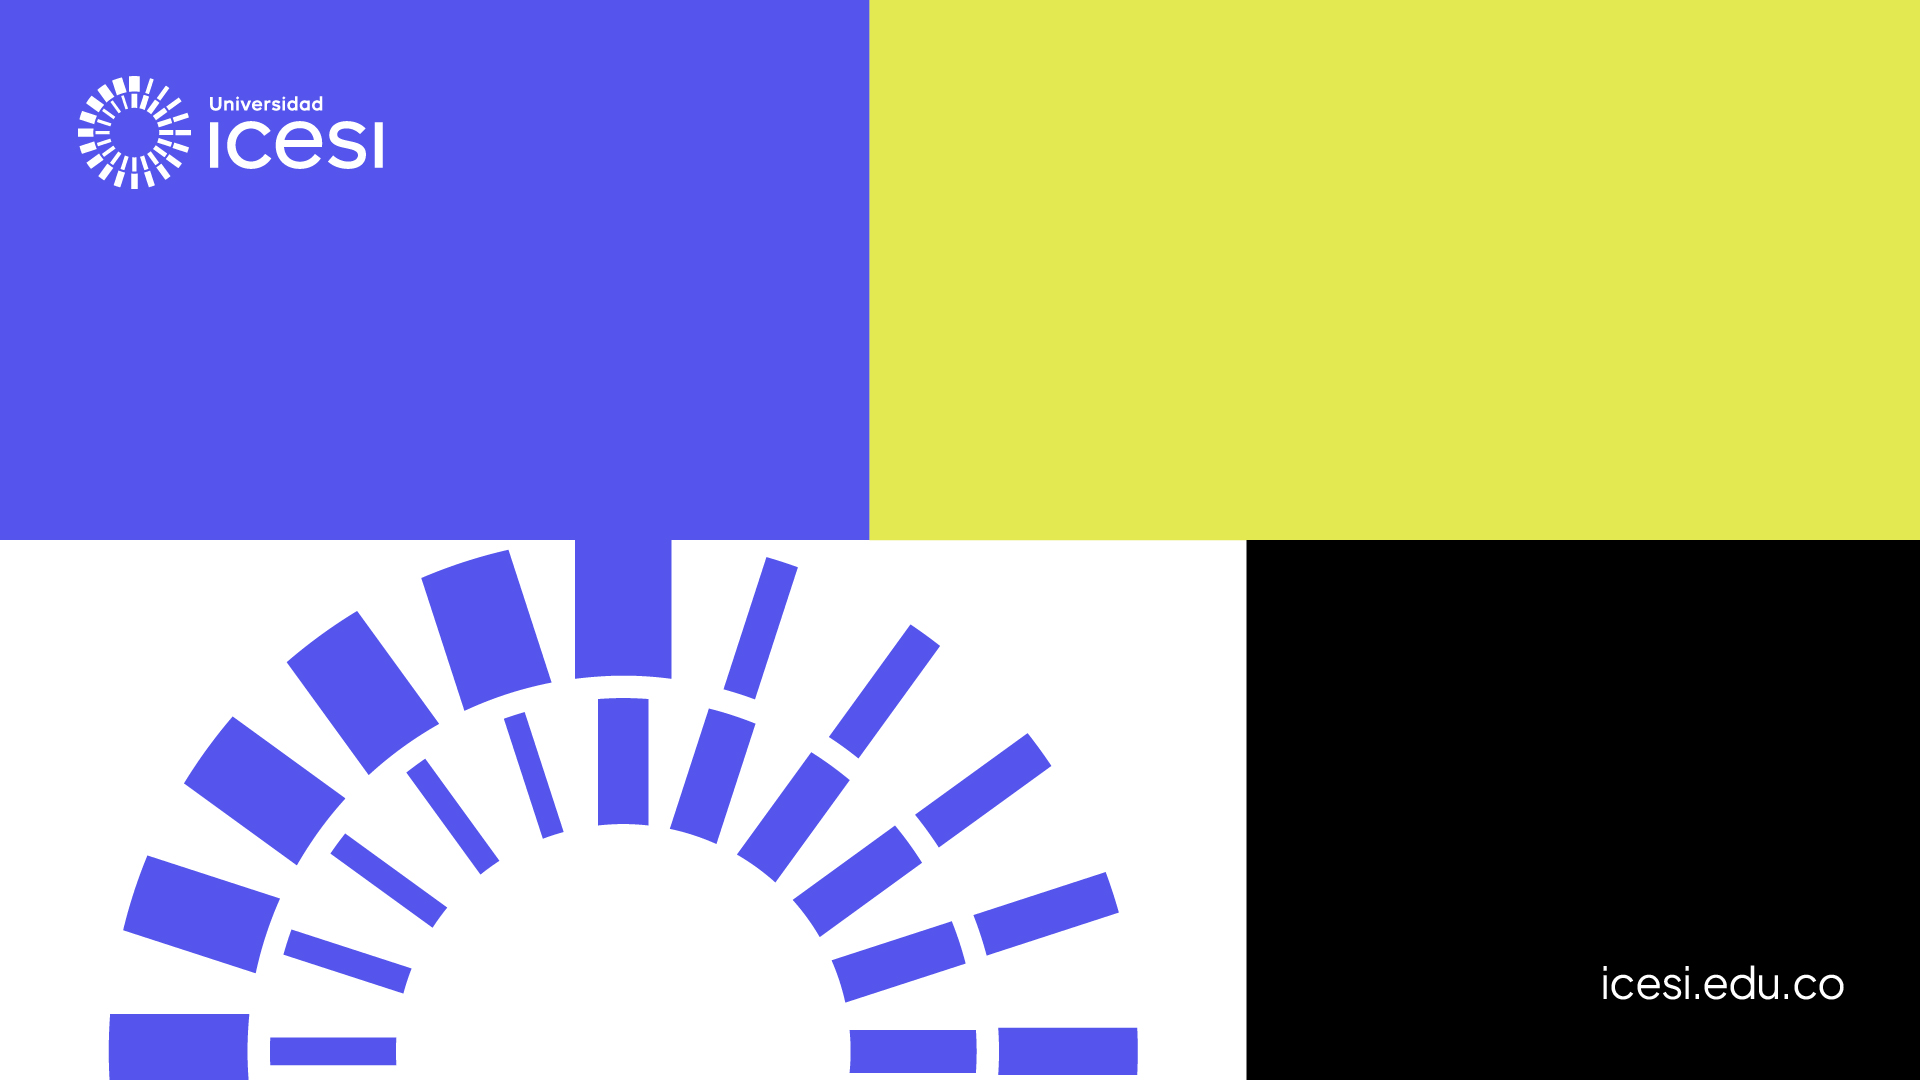
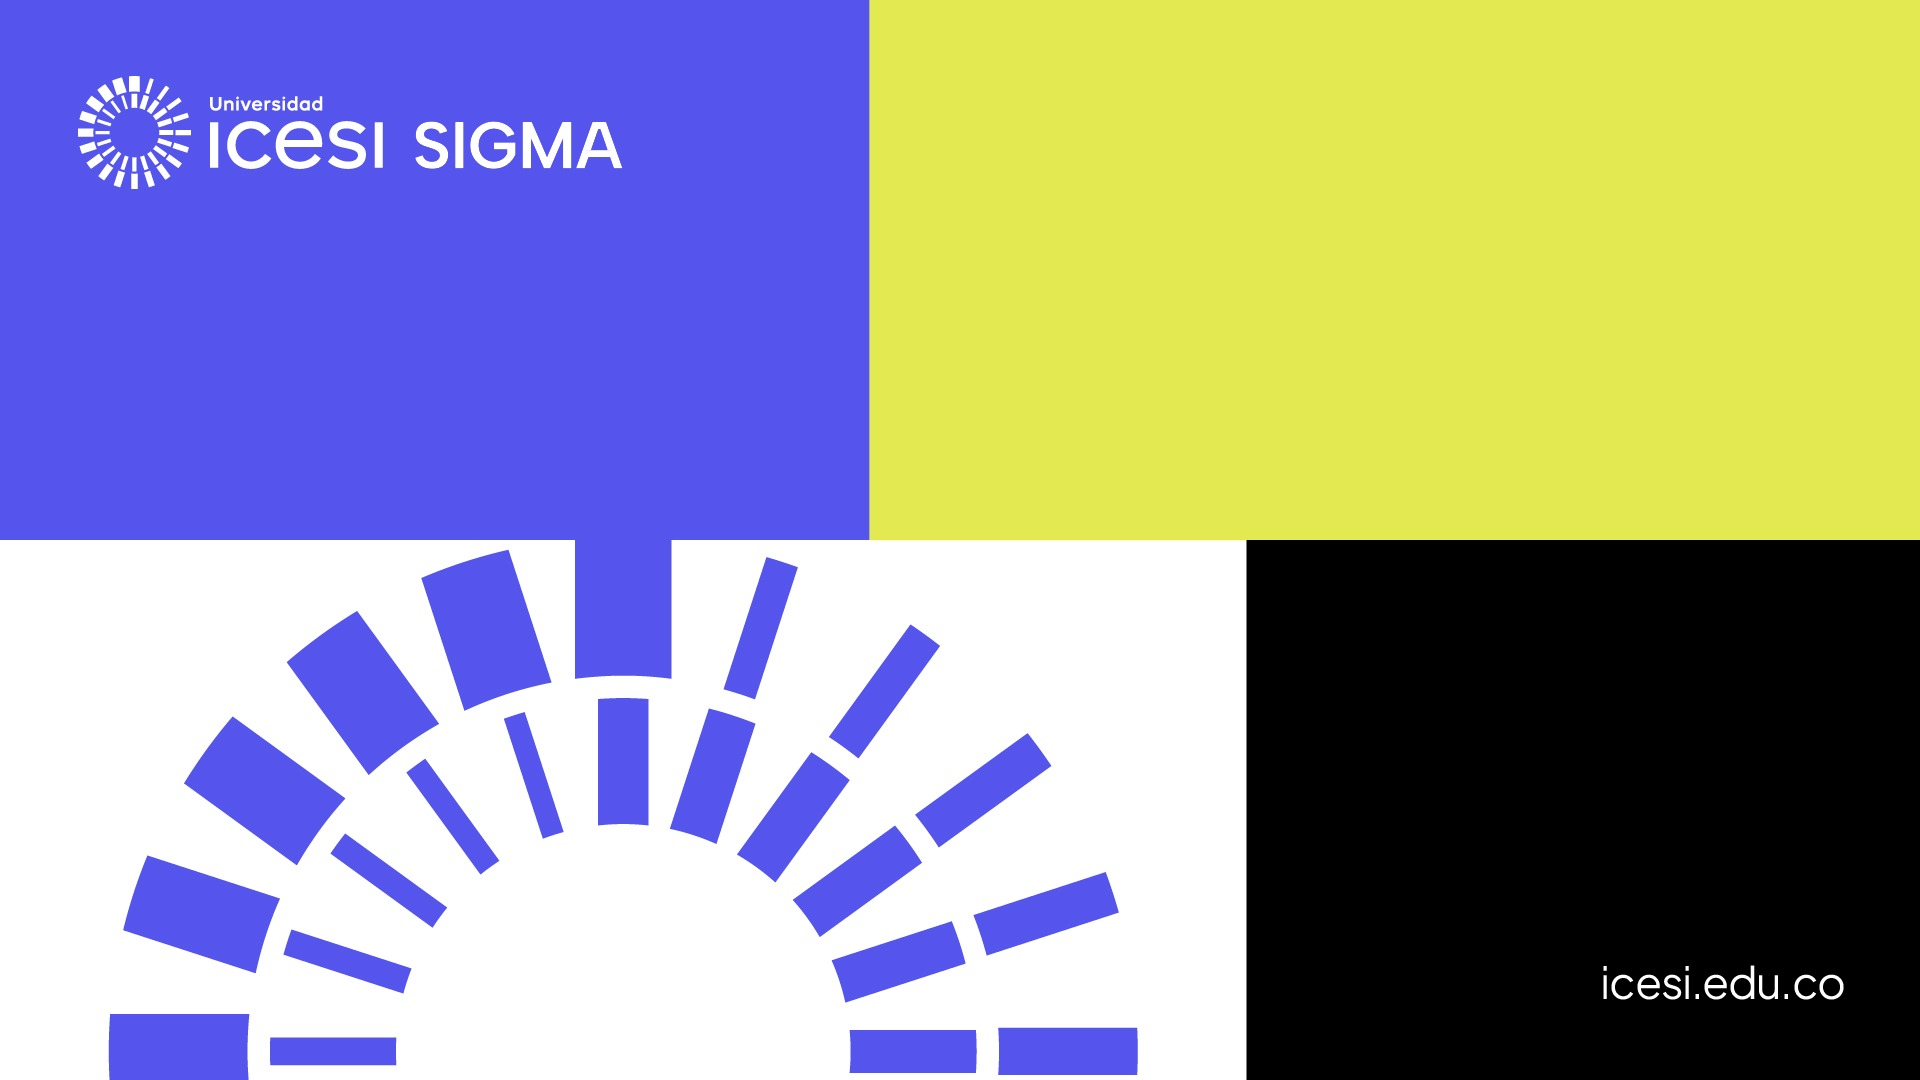
Quitar loco duplicado en el login

Changed region(s): [[0.1875, 0.0917, 0.3438, 0.1528], [0.125, 0.0917, 0.1562, 0.1222], [0.0625, 0.0917, 0.0938, 0.1222]]

diff --git a/PDG-SIGMA-Front/src/Login.css b/PDG-SIGMA-Front/src/Login.css
@@ -19,7 +19,7 @@ body.login-background {
     overflow: hidden;
     background-image: url('./img/login-wallpaper.jpg');
     background-size: auto 100%;
-    background-position: left 0 top 88px;
+    background-position: left 0 top 0px;
     background-repeat: no-repeat;
     background-color: var(--azul-icesi);
     display: flex;
@@ -50,6 +50,7 @@ body.login-background {
     color: var(--blanco);
     align-self: center;
     text-align: center;
+    margin-top: auto;
 }
 
 .login-hero-caption p {
@@ -81,8 +82,8 @@ body.login-background {
 
 .login-panel-header {
     display: flex;
-    justify-content: space-between;
-    align-items: flex-start;
+    flex-direction: column;
+    align-items: flex-end;
     gap: 18px;
 }
 

diff --git a/PDG-SIGMA-Front/src/Login.js b/PDG-SIGMA-Front/src/Login.js
@@ -1,7 +1,6 @@
 import './Login.css';
 import React, { useEffect, useState } from 'react';
 import { useNavigate } from 'react-router-dom';
-import logo from './img/logo.png';
 import Alert from './Alert';
 import { BACKEND_URL } from './config/ApiBackend';
 
@@ -121,7 +120,6 @@ function Login() {
       <main className="login-layout">
         <section className="login-hero" aria-hidden="true">
           <div className="login-hero-overlay" />
-          <img src={logo} alt="Universidad Icesi" className="logo-login" />
           <div className="login-hero-caption">
             <p>Llega mas lejos</p>
             <a href="https://www.icesi.edu.co" target="_blank" rel="noreferrer">
@@ -132,7 +130,6 @@ function Login() {
 
         <section className="login-panel">
           <div className="login-panel-header">
-            <h1>ICESI SIGMA</h1>
             <a href="https://banner.icesi.edu.co" target="_blank" rel="noreferrer">
               Guia Banner
             </a>